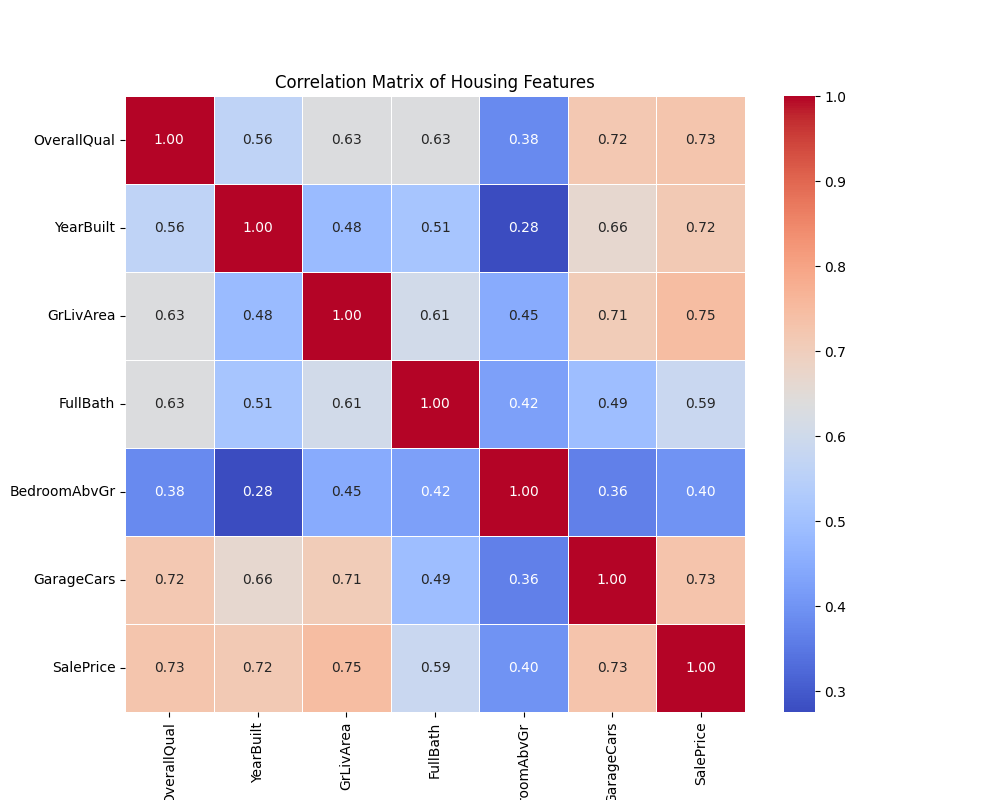
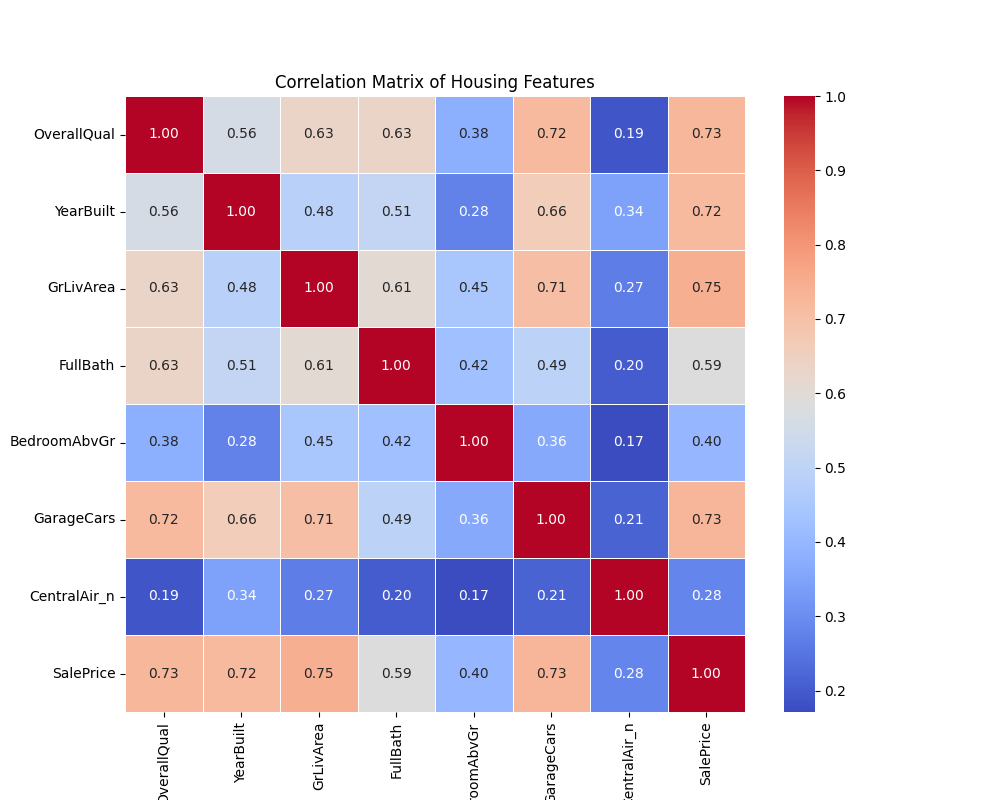
Nuevos gráficos de visualización

diff --git a/HousePrice_Analysis.py b/HousePrice_Analysis.py
@@ -46,6 +46,8 @@ plt.show()
 #Find key predictors
 #Calculate the correlation matrix
 # 1. Create a list of all your numeric predictor columns + the target
+# Convert categorical varible
+df["CentralAir_n"] = np.where(df["CentralAir"] == "Y", 1, 0)
 numeric_columns = [
     'OverallQual',
     'YearBuilt',
@@ -53,7 +55,9 @@ numeric_columns = [
     'FullBath',
     'BedroomAbvGr',
     'GarageCars',
-    'SalePrice'  # Include your target variable
+    "CentralAir_n",
+    'SalePrice'
+    # Include your target variable
 ]
 
 # 2. Create a new DataFrame containing ONLY these numeric columns
@@ -90,6 +94,7 @@ plt.show()
 ax = df.plot.scatter(x="GrLivArea", y="SalePrice")
 ax.set_xlabel("Garden Area")
 ax.set_ylabel("SalePrice")
+plt.savefig("visualization/GrLivArea_scatterplot.png")
 plt.show()
 #YearBuilt
 ax = df.plot.scatter(x="YearBuilt", y="SalePrice")
@@ -102,6 +107,7 @@ plt.show()
 ax = df.boxplot(by="OverallQual", column="SalePrice")
 ax.set_xlabel("Overall Qualification")
 ax.set_ylabel("SalePrice")
+plt.savefig("visualization/OverallQual_boxplot.png")
 plt.show()
 
 #Central Air
@@ -126,6 +132,7 @@ plt.show()
 #QQ Plot
 #QQPlot
 stats.probplot(df["SalePrice"], dist="norm", plot=plt)
+plt.savefig("visualization/SalePrice_qqplot.png")
 plt.show()
 
 #Convert SalePrice to normal distribution
